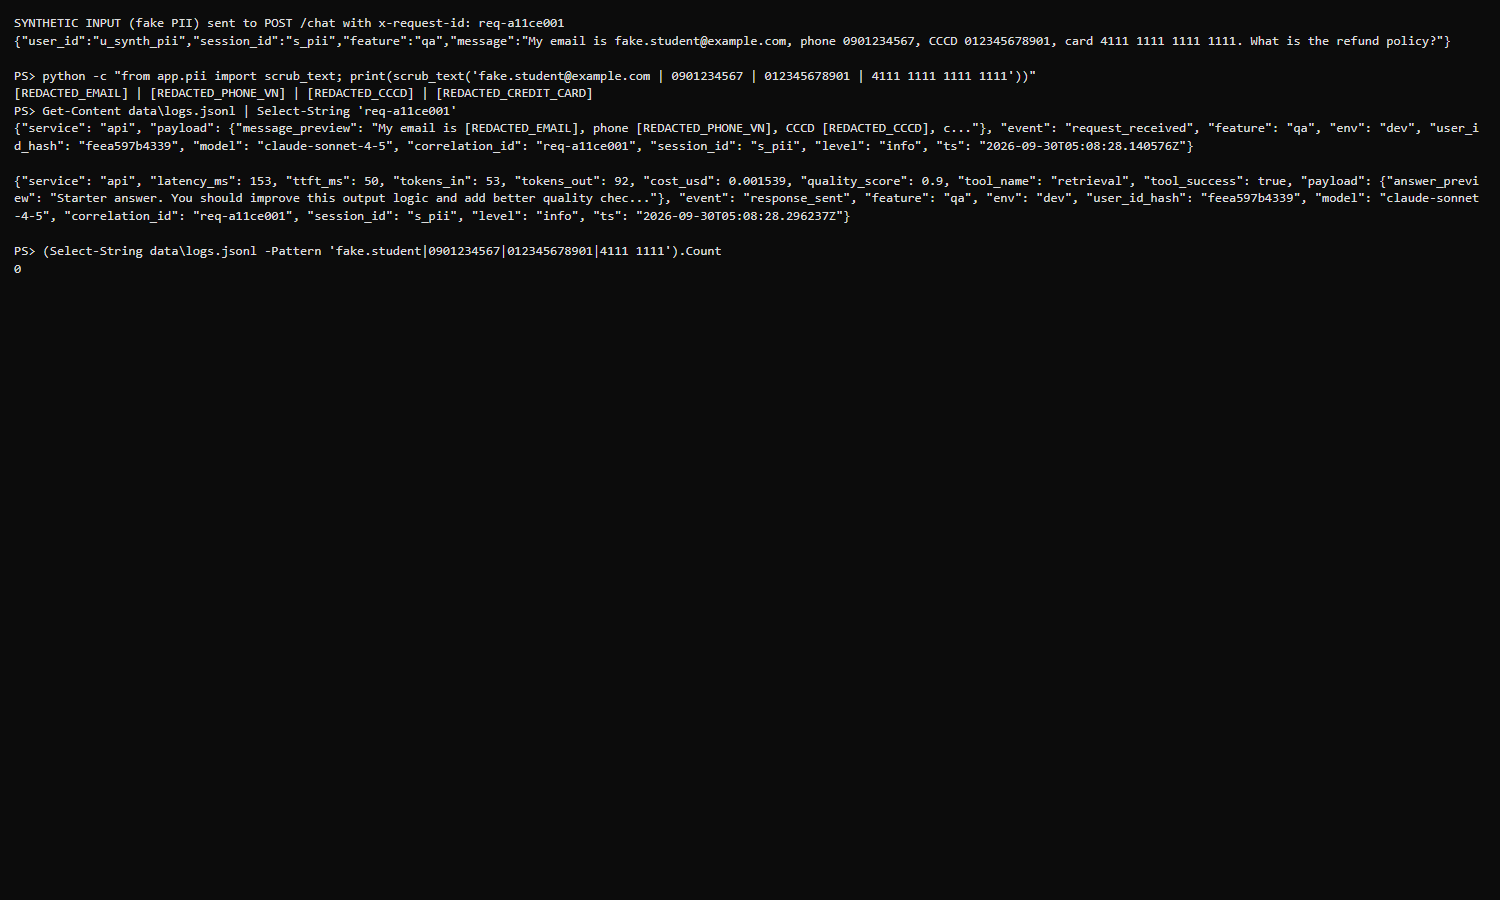
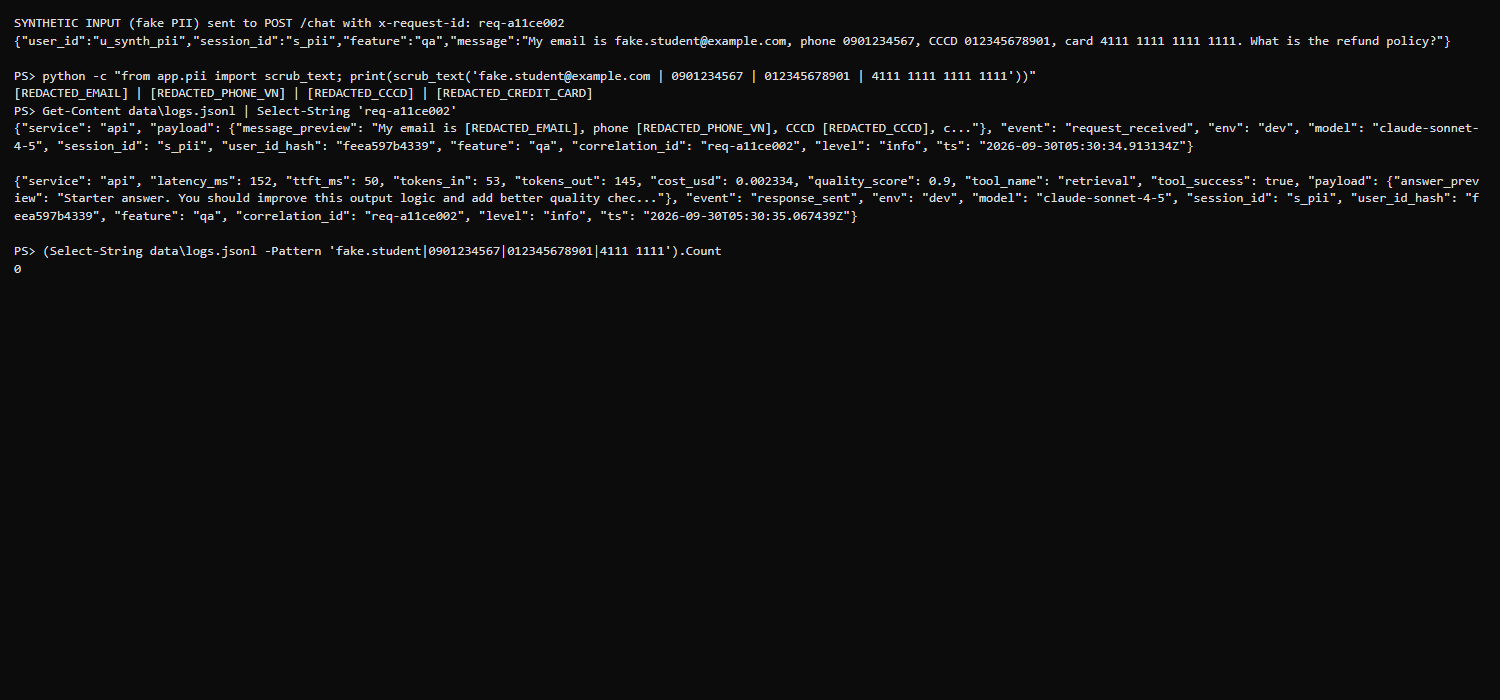
Langfuse evidence (06-10,14) from personal project, refreshed workload/challenge evidence, report update

Changed region(s): [[0.0, 0.0, 0.9813, 0.36], [0.1227, 0.36, 0.1533, 0.39]]

diff --git a/submission/REPORT.md b/submission/REPORT.md
@@ -10,7 +10,7 @@
 - **Repository URL:** https://github.com/Biocuatoe/K4-L3-DAY13-LeDucHung-2A202602849-Monitoring-LLMOps
 - **Commit SHA cuối:** code/config được kiểm thử ở commit `6b69ca3` (mọi output trong `evidence/` chạy trên code này). Commit chỉ thêm evidence + báo cáo nằm ngay sau đó; SHA cuối cùng để nộp lấy bằng `git log -1 --oneline` sau khi push (một file không thể tự chứa SHA của chính commit chứa nó).
 - **Challenge ID:** `day13-k4-l3b-monitoring-llmops-v1` (cohort K4, incident `rag_slow`, `latency_threshold_ms` = 2000; file `config/challenge.json` do Lab Coach gửi, được `.gitignore`, không commit)
-- **Tên project Langfuse cá nhân:** cần là `day13-k4-l3b-2A202602849`. **Trạng thái thực tế:** project gắn với key trong `.env` hiện có tên `My Project` (đọc qua API), chưa đổi tên — xem mục 8 (hạn chế) và `evidence/README.md`.
+- **Tên project Langfuse cá nhân:** `day13-k4-l3b-2A202602849` (xác nhận qua API và hiển thị trong mọi ảnh Langfuse). Project cũ `My Project` (dùng cho các lần chạy thử trước) không còn được dùng làm evidence.
 
 ## 2. Evidence index
 
@@ -21,15 +21,15 @@
 | Dashboard validator | [evidence/03-dashboard-validator.txt](evidence/03-dashboard-validator.txt) | có |
 | Structured log | ![](evidence/04-structured-log.png) | có |
 | PII redaction | ![](evidence/05-pii-redaction.png) | có |
-| Trace list | `evidence/06-trace-list.png` | **CHƯA CÓ** — cần chụp thủ công từ Langfuse UI (đăng nhập) |
-| Trace waterfall | `evidence/07-trace-waterfall.png` | **CHƯA CÓ** — như trên |
-| Trace metadata | `evidence/08-trace-metadata.png` | **CHƯA CÓ** — như trên |
-| Prompt versions | `evidence/09-prompt-versions.png` | **CHƯA CÓ** — như trên |
-| Prompt rollback | `evidence/10-prompt-rollback.png` | **CHƯA CÓ** — như trên (dữ liệu thật đã tạo, xem mục 5) |
+| Trace list | ![](evidence/06-trace-list.png) | có |
+| Trace waterfall | ![](evidence/07-trace-waterfall.png) | có |
+| Trace metadata | ![](evidence/08-trace-metadata.png) | có (ảnh cắt phía trên dòng `scope.attributes.public_key` của Langfuse để không hiện key) |
+| Prompt versions | ![](evidence/09-prompt-versions.png) | có |
+| Prompt rollback | ![](evidence/10-prompt-rollback.png) (từng ảnh: 10a, 10b, 10c cùng thư mục) | có |
 | Dashboard runtime | ![](evidence/11-dashboard-overview.png) | có |
 | Incident metric | ![](evidence/12-incident-metric.png) | có |
 | Incident log | ![](evidence/13-incident-log.png) | có |
-| Incident trace | `evidence/14-incident-trace.png` | **CHƯA CÓ** — cần chụp thủ công (trace ID ở mục 7) |
+| Incident trace | ![](evidence/14-incident-trace.png) | có |
 
 ## 3. Kết quả kỹ thuật
 
@@ -38,9 +38,9 @@
 | `validate_logs.py` | 30/100 | **100/100** (69 record, 33 correlation ID khác nhau, 0 PII leak) | [evidence/02](evidence/02-log-validator.txt). `data/logs.jsonl` cũ được chuyển sang `data/old/` (không commit) trước khi đo lại. |
 | `validate_dashboard.py` | 6/6 | **6/6** | [evidence/03](evidence/03-dashboard-validator.txt) |
 | `pytest` | 22 passed | **33 passed** | [evidence/01](evidence/01-pytest.txt) |
-| Traces trong workload cuối | 0 (không có key) | **31** trace từ workload cuối (16 workload/prompt + 5 challenge + 10 kiểm chứng sau fix), có `day13-agent-request` / `lab-agent-run` → `retrieval` + `generation` | đọc qua Langfuse observations API; ảnh UI chưa chụp được (mục 2). Project còn vài trace cũ từ các lần chạy thử trước đó (prompt `local-v1`), không dùng làm evidence. |
-| PII leak | 0 | **0** | request PII giả `req-a11ce001`, [evidence/05](evidence/05-pii-redaction.png) |
-| Latency | P95 161 ms (10 req) | bình thường ≈ 150–190 ms/request; P95 cửa sổ 60' = 1368 ms (request đầu tiên sau mỗi lần khởi động ≈ 1.3 s do tải prompt); **incident: P95 = 2655 ms** | [evidence/11](evidence/11-dashboard-overview.png), [evidence/12](evidence/12-incident-metric.png) |
+| Traces trong workload cuối | 0 (không có key) | **31** trace trong project `day13-k4-l3b-2A202602849` (16 workload/prompt + 5 challenge + 10 kiểm chứng sau fix), mỗi trace `day13-agent-request` → `lab-agent-run` → `retrieval` + `generation` | [evidence/06](evidence/06-trace-list.png) (Total 31). |
+| PII leak | 0 | **0** | request PII giả `req-a11ce002`, [evidence/05](evidence/05-pii-redaction.png) |
+| Latency | P95 161 ms (10 req) | bình thường ≈ 150–190 ms/request; P95 cửa sổ 60' = 2665 ms gồm cả incident; **incident: P95 ≈ 2665 ms**. Một số request đầu tiên sau mỗi lần khởi động API chậm 2.3–3.0 s (`req-ab000201`, `req-ab000202`, `req-ab000204`): trace cho thấy retrieval ≈ 0 ms, generation ≈ 150 ms, tức thời gian nằm ở bước lấy prompt từ Langfuse lúc cache còn lạnh (chưa có span riêng), không phải incident | [evidence/11](evidence/11-dashboard-overview.png), [evidence/12](evidence/12-incident-metric.png) |
 | Retrieval success | 100% | 100% (không bật `tool_fail`) | |
 
 ## 4. Logging và PII
@@ -52,9 +52,9 @@
 
 ## 5. Tracing và prompt versioning
 
-- **Traces do chính tôi tạo:** workload chạy bằng `scripts/load_test.py` + request có `x-request-id` cố định (`req-ab00010x`) với key trong `.env` của tôi; dò lại trace bằng `correlation_id` qua Langfuse API. Không dùng trace của người khác.
+- **Traces do chính tôi tạo:** workload chạy bằng `scripts/load_test.py` + request có `x-request-id` cố định (`req-ab00020x`) với key trong `.env` của tôi; dò lại trace bằng `correlation_id` qua Langfuse API. Không dùng trace của người khác.
 - **Cấu trúc:** trace `day13-agent-request` → observation gốc `lab-agent-run` (agent) → con `retrieval` (retriever: `doc_count`, `query_preview` đã scrub, thời lượng) và `generation` (generation: `model`, `usage_details` input/output token, `cost_details`, prompt link, `prompt_name/label/version/source`). `correlation_id`, `feature`, `model`, `env` truyền xuống mọi observation bằng `propagate_attributes` ([app/agent.py](../app/agent.py)).
-- **Nối trace với log:** cùng `correlation_id` (ví dụ `req-ab000101` có trong `data/logs.jsonl` và trong metadata của trace).
+- **Nối trace với log:** cùng `correlation_id` (ví dụ `req-ab000201` có trong `data/logs.jsonl` và trong metadata của trace).
 - **Prompt name:** `day13-chat` (text, 3 biến `feature/docs/message`), tạo bằng [scripts/manage_prompts.py](../scripts/manage_prompts.py).
 - **Version/label baseline:** v1 — labels `baseline`, `production` (nội dung giống template gốc).
 - **Version/label candidate:** v2 — label `candidate` (thêm dòng yêu cầu trả lời ngắn ≤ 2 câu).
@@ -62,17 +62,17 @@
 
 | Bước | correlation_id | Trace ID | label / version |
 |---|---|---|---|
-| chạy `baseline` | `req-ab000101` | `d9033d69b66c4975f390950b09208bdb` | baseline / v1 |
-| chạy `candidate` | `req-ab000102` | `2e37c199c7aa9f190e24627567dec3cc` | candidate / v2 |
-| production TRƯỚC promote | `req-ab000103` | `94584e3c1f2f1c56166d9b0c3a1df37d` | production / v1 |
-| production SAU promote | `req-ab000104` | `066f3d80412e133ffb03d884d8a91b1c` | production / v2 |
-| production SAU rollback | `req-ab000105` | `dd443a3cc638e597bca36068486ddc0f` | production / v1 |
+| chạy `baseline` | `req-ab000201` | `ef87b6b95557bfd7fa5de566435393f7` | baseline / v1 |
+| chạy `candidate` | `req-ab000202` | `c7a0454176fcfca01dde85f76fcf309b` | candidate / v2 |
+| production TRƯỚC promote | `req-ab000203` | `6be6836d2d622cfcdb355ad4e23d75ec` | production / v1 |
+| production SAU promote | `req-ab000204` | `b0857f31580bc6fff752627a98e44d13` | production / v2 |
+| production SAU rollback | `req-ab000205` | `bb45a4e9d6dcf6a4c5b36201a0932575` | production / v1 |
 
 - **Promote và rollback (chạy thật bằng `manage_prompts.py`, output `show`):**
   - trước: v1 `['baseline','production']`, v2 `['candidate','latest']`
   - promote: v1 `['baseline']`, v2 `['candidate','latest','production']`
   - rollback: v1 `['baseline','production']`, v2 `['candidate','latest']`
-  - Mỗi lần đổi label tôi khởi động lại API (cache prompt 60 s) rồi gửi cùng một input. Ảnh UI [evidence/09, 10] chưa chụp được.
+  - Mỗi lần đổi label tôi khởi động lại API (cache prompt 60 s) rồi gửi cùng một input. Ảnh UI: [evidence/09](evidence/09-prompt-versions.png), [evidence/10](evidence/10-prompt-rollback.png). Để chụp trước/sau, lúc chụp tôi chạy lại `promote` rồi `rollback` bằng script và chụp Langfuse sau mỗi bước (kết thúc ở production = v1).
 - **Fallback:** nếu Langfuse lỗi, `prompt_source=local-fallback`, `prompt_version=local-v1` ([app/prompt_management.py](../app/prompt_management.py)); không hard-code version giả.
 
 ## 6. Dashboard, SLO và alerts
@@ -80,40 +80,40 @@
 - **Dashboard:** đúng sáu panel theo [config/dashboard.yaml](../config/dashboard.yaml) (latency P50/P95/P99 + TTFT P95, traffic, errors + retrieval success, cost, tokens, quality), render từ `data/logs.jsonl` bằng [scripts/dashboard.py](../scripts/dashboard.py); time range 60 phút, đơn vị và đường threshold hiển thị ([evidence/11](evidence/11-dashboard-overview.png)). Đường cam "challenge threshold 2000 ms" là phụ.
 - **SLO và lý do:** [config/slo.yaml](../config/slo.yaml) — 99.5% request `response_sent` có `latency_ms <= 3000` trong 28 ngày. Baseline P95 ≈ 170 ms nên 3000 ms là ngưỡng người dùng chấp nhận được, không gây báo động giả.
 - **Error budget:** 0.5% ⇒ với 10 000 request/28 ngày được phép tối đa 50 request chậm hơn 3000 ms hoặc lỗi.
-- **Nhận xét từ challenge:** `rag_slow` đẩy P95 lên 2655 ms — vượt ngưỡng challenge 2000 ms nhưng **chưa** vượt SLO 3000 ms, nên alert 3000 ms sẽ bỏ sót. Vì vậy `HighLatencyP95` được hạ xuống `> 2000 ms` (cảnh báo sớm, chặt hơn SLO).
+- **Nhận xét từ challenge:** `rag_slow` đẩy P95 lên 2665 ms — vượt ngưỡng challenge 2000 ms nhưng **chưa** vượt SLO 3000 ms, nên alert 3000 ms sẽ bỏ sót. Vì vậy `HighLatencyP95` được hạ xuống `> 2000 ms` (cảnh báo sớm, chặt hơn SLO).
 - **Ba alert** ([config/alert_rules.yaml](../config/alert_rules.yaml), runbook [docs/alerts.md](../docs/alerts.md)): `HighLatencyP95` (warning, 5m), `ElevatedErrorRate` (critical, 10m), `DegradedRetrievalSuccess` (warning, 15m); đều symptom-based, kênh Slack `#k4-l3b-alerts`, owner `student-2A202602849`.
 
 ## 7. Điều tra challenge
 
 - **Challenge ID:** `day13-k4-l3b-monitoring-llmops-v1`
-- **Khoảng thời gian:** 2026-09-30 05:12:21Z (bật incident) → 05:13:45Z (tắt), request bị ảnh hưởng 05:12:22Z–05:12:36Z. Lệnh: `python scripts/inject_incident.py`, `python scripts/load_test.py --challenge --concurrency 5`.
-- **Metric (bước 1):** latency P95 = **2655 ms**, P99 = 2656 ms (baseline ≈ 170 ms) trong khi TTFT P95 giữ 50 ms, error rate 0%, retrieval success 100% ⇒ chỉ latency bất thường ([evidence/12](evidence/12-incident-metric.png)).
-- **Log (bước 2):** `response_sent` `correlation_id=req-d31dfb4b`, `latency_ms=2653`, `feature=monitoring`, `ts=2026-09-30T05:12:25.495346Z`; cả 5 request challenge đều 2653–2656 ms ([evidence/13](evidence/13-incident-log.png)). Log `incident_enabled name=rag_slow` lúc 05:12:21Z.
-- **Trace (bước 3):** trace `1ef3ab0695c05cacd5bec783d980ca2c` có `correlation_id=req-d31dfb4b`; qua Langfuse API: `lab-agent-run` 2654 ms, **`retrieval` 2501 ms**, `generation` 152 ms. Span gây ảnh hưởng: `retrieval`. (5 trace challenge đều cùng mẫu: retrieval ≈ 2501 ms.) Ảnh UI: `evidence/14-incident-trace.png` **chưa chụp**.
+- **Khoảng thời gian:** 2026-09-30 05:32:36Z (bắt đầu chạy) → 05:33:38Z (tắt incident); 5 request bị ảnh hưởng 05:32:41Z–05:32:52Z. Lệnh: `python scripts/inject_incident.py`, `python scripts/load_test.py --challenge --concurrency 5`.
+- **Metric (bước 1):** latency P95 ≈ **2665 ms**, P99 ≈ 2665 ms (baseline ≈ 170 ms) trong khi TTFT P95 giữ 50 ms, error rate 0%, retrieval success 100% ⇒ chỉ latency bất thường ([evidence/12](evidence/12-incident-metric.png)).
+- **Log (bước 2):** `response_sent` `correlation_id=req-583d7b8f`, `latency_ms=2660`, `feature=monitoring`, `ts=2026-09-30T05:32:41.185137Z`; cả 5 request challenge đều 2653–2665 ms ([evidence/13](evidence/13-incident-log.png)). Có log `incident_enabled name=rag_slow` và `incident_disabled` (xem ảnh).
+- **Trace (bước 3):** trace `b54dcfcd52ec7656e03453abb6bb02d3` có `correlation_id=req-583d7b8f`: `lab-agent-run` 2.66 s, **`retrieval` 2.50 s**, `generation` 155 ms. Span gây ảnh hưởng: `retrieval`. 5 trace challenge đều cùng mẫu (retrieval ≈ 2501–2504 ms). Ảnh: [evidence/14](evidence/14-incident-trace.png).
 - **Root cause (bước 4):** incident `rag_slow` làm `retrieve()` trong [app/mock_rag.py](../app/mock_rag.py) ngủ 2.5 s; chứng cứ: span `retrieval` chiếm ~94% thời gian, generation/TTFT bình thường, log `incident_enabled`. (Ngoài ra `time.sleep` chặn event loop nên client thấy 8–13 s do request xếp hàng, còn server đo 2.65 s/request.)
-- **Fix action (bước 5):** tắt incident bằng `python scripts/inject_incident.py --disable` (log `incident_disabled` 05:13:45Z); chạy lại `scripts/load_test.py` — latency trở lại ≈ 160–250 ms.
+- **Fix action (bước 5):** tắt incident bằng `python scripts/inject_incident.py --disable` (log `incident_disabled` 05:33:38Z); chạy lại `scripts/load_test.py` — latency trở lại ≈ 160–250 ms.
 - **Preventive measure (bước 6):** hạ alert `HighLatencyP95` xuống > 2000 ms/5m; runbook chỉ rõ đi Metrics → Logs → Traces và so span `retrieval` với `generation`; đề xuất thêm timeout + fallback cho retrieval và không dùng `time.sleep` chặn trong handler async (chưa triển khai).
 
 ## 8. Giải thích và tự đánh giá
 
-- **Một quyết định kỹ thuật:** hạ ngưỡng alert latency xuống 2000 ms thay vì giữ 3000 ms, vì đo thực tế cho thấy incident 2655 ms sẽ lọt qua ngưỡng SLO; SLO và dashboard contract giữ nguyên.
+- **Một quyết định kỹ thuật:** hạ ngưỡng alert latency xuống 2000 ms thay vì giữ 3000 ms, vì đo thực tế cho thấy incident ≈ 2665 ms sẽ lọt qua ngưỡng SLO; SLO và dashboard contract giữ nguyên.
 - **Một lỗi/blocker:** (1) trace lúc đầu thiếu token/cost và bị mất khi tôi kill API ngay sau request (span chưa flush) — sửa bằng `usage_details/cost_details` trên generation và chờ flush trước khi restart; (2) `uvicorn` không nạp `.env` nếu thiếu `--env-file .env`, nên `tracing_enabled=false`; (3) API `traces` legacy của Langfuse trả 410, phải dùng `observations` v2.
 - **Cách tìm nguyên nhân:** so sánh từng observation theo `correlation_id` qua API thay vì đoán.
 - **Metrics → Logs → Traces:** metric cho biết *cái gì* và *khi nào*; log cho *request nào* (correlation_id); trace cho *bước nào* (span).
 - **Vai trò prompt version, token/cost, SLO, rollback:** prompt version gắn mỗi trace với đúng bản prompt để so sánh/rollback bằng đổi label không cần deploy; token/cost phát hiện `cost_spike`; SLO/error budget quyết định mức nghiêm trọng của alert.
 - **Điều quan trọng nhất đã học:** kết luận incident phải nối được cùng một request qua metric, log, trace.
 - **Hạn chế / chưa hoàn thành (trung thực):**
-  - Chưa có ảnh Langfuse UI `06`–`10`, `14` (cần đăng nhập Langfuse — tôi không tự động hoá được). Dữ liệu tương ứng đã tồn tại trong project và được đối chiếu qua API.
-  - Project Langfuse còn tên `My Project`, chưa đổi thành `day13-k4-l3b-2A202602849`.
+  - Ảnh Langfuse 06–10, 14 chụp từ phiên Edge do chính học viên đăng nhập (điều khiển bằng Playwright); không mở trang API Keys. Ảnh 07/08/14 được cắt (clip) phía trên dòng metadata `scope.attributes.public_key` của Langfuse; không chỉnh sửa nội dung nào.
+  - Bước lấy prompt từ Langfuse chưa có span riêng nên request lạnh chậm 2–3 s không giải thích được bằng span (xem mục 3); nên bọc `resolve_prompt` bằng một observation.
   - Repo trên GitHub đã từng chứa `config/K4-L3B-challenge.json` (commit `e71de5d`, một bản challenge riêng) — file đã được gỡ khỏi index và đổi về `config/challenge.json` (gitignore) ở commit sau, nhưng vẫn còn trong lịch sử; cần viết lại lịch sử/force-push nếu giảng viên yêu cầu.
   - Dashboard là trang HTML tĩnh sinh từ log, không tự refresh.
 
 ## 9. Checklist trước khi nộp
 
 - [x] Test/validator chạy trên code ở commit `6b69ca3`.
-- [ ] Ảnh Langfuse (06–10, 14) — chưa có, xem mục 2.
-- [x] Incident nối metric → log (req-d31dfb4b) → trace (1ef3ab06…, span `retrieval`); ảnh trace UI còn thiếu.
-- [ ] Trace/prompt evidence thuộc project `day13-k4-l3b-2A202602849` — project chưa đổi tên.
+- [x] Ảnh Langfuse (06–10, 14) đã có, từ project cá nhân, không lộ key/secret.
+- [x] Incident nối metric → log (req-583d7b8f) → trace (b54dcfcd…, span `retrieval`).
+- [x] Trace/prompt evidence thuộc project `day13-k4-l3b-2A202602849`.
 - [x] Không có secret/API key/PII thô trong evidence và report.
 - [ ] URL repo và commit SHA cuối nộp trên LMS/Codelabs — việc của học viên sau khi push.
 

diff --git a/submission/evidence/README.md b/submission/evidence/README.md
@@ -1,27 +1,22 @@
 # Evidence manifest — Lê Đức Hùng (2A202602849)
 
-Tất cả nguồn là output/ảnh sinh từ lần chạy thật trên code ở commit `6b69ca3`. Không có secret; dữ liệu PII chỉ là dữ liệu giả.
+Tất cả nguồn là output/ảnh sinh từ lần chạy thật trên code ở commit `6b69ca3` (project Langfuse `day13-k4-l3b-2A202602849`). Không có secret; dữ liệu PII chỉ là dữ liệu giả.
 
 | # | File | Nguồn | Chứng minh | CP |
 |---|---|---|---|---|
 | 01 | `01-pytest.txt` | output `python -m pytest -q` | 33 test pass | CP0–CP4 |
 | 02 | `02-log-validator.txt` | output `scripts/validate_logs.py` | 100/100, 0 PII leak | CP1 |
 | 03 | `03-dashboard-validator.txt` | output `scripts/validate_dashboard.py` | 6/6 panel | CP2 |
-| 04 | `04-structured-log.png` | terminal / `data/logs.jsonl` (`req-ab000101`) | JSON log có ts, event, correlation_id, model, env, feature, latency | CP1 |
-| 05 | `05-pii-redaction.png` | terminal / `data/logs.jsonl` (`req-a11ce001`) | input giả → `[REDACTED_*]`, 0 chuỗi PII gốc trong log | CP1 |
-| 06 | **thiếu** | Langfuse UI | danh sách ≥ 10 trace | CP2 |
-| 07 | **thiếu** | Langfuse UI | waterfall root → retrieval + generation | CP2 |
-| 08 | **thiếu** | Langfuse UI | metadata correlation_id/model/prompt/token/cost | CP2 |
-| 09 | **thiếu** | Langfuse UI | prompt `day13-chat` v1/v2 + labels | CP2 |
-| 10 | **thiếu** | Langfuse UI | production label trước/sau promote/rollback | CP2 |
+| 04 | `04-structured-log.png` | terminal / `data/logs.jsonl` (`req-ab000201`) | JSON log có ts, event, correlation_id, model, env, feature, latency | CP1 |
+| 05 | `05-pii-redaction.png` | terminal / `data/logs.jsonl` (`req-a11ce002`) | input giả → `[REDACTED_*]`, 0 chuỗi PII gốc trong log | CP1 |
+| 06 | `06-trace-list.png` | Langfuse UI | project cá nhân, 31 trace gốc `day13-agent-request` | CP2 |
+| 07 | `07-trace-waterfall.png` | Langfuse UI, trace `ef87b6b9…` | `lab-agent-run` → `retrieval` + `generation` (timeline) | CP2 |
+| 08 | `08-trace-metadata.png` | Langfuse UI, span `generation` | correlation_id, model, prompt name/label/version, token, cost | CP2 |
+| 09 | `09-prompt-versions.png` | Langfuse UI | `day13-chat` v1 (`production`,`baseline`), v2 (`latest`,`candidate`) | CP2 |
+| 10 | `10-prompt-rollback.png` (+ `10a`, `10b`, `10c`) | Langfuse UI sau `manage_prompts.py promote/rollback` | production: v1 → v2 → v1 | CP2 |
 | 11 | `11-dashboard-overview.png` | `scripts/dashboard.py` từ `data/logs.jsonl` | 6 panel có dữ liệu, time range, đơn vị, threshold | CP2 |
-| 12 | `12-incident-metric.png` | `scripts/dashboard.py` (cửa sổ 05:05–05:12:36Z) | latency P95 2655 ms trong challenge | CP3 |
-| 13 | `13-incident-log.png` | terminal / `data/logs.jsonl` | `req-d31dfb4b` latency 2653 ms + incident_enabled/disabled | CP3 |
-| 14 | **thiếu** | Langfuse UI | trace `1ef3ab0695c05cacd5bec783d980ca2c` (`req-d31dfb4b`), span `retrieval` 2501 ms | CP3 |
+| 12 | `12-incident-metric.png` | `scripts/dashboard.py` (cửa sổ 05:28–05:32:51Z) | latency P95 ≈ 2665 ms trong challenge | CP3 |
+| 13 | `13-incident-log.png` | terminal / `data/logs.jsonl` | `req-583d7b8f` latency 2660 ms + incident_enabled/disabled | CP3 |
+| 14 | `14-incident-trace.png` | Langfuse UI, trace `b54dcfcd…` | span `retrieval` 2.50 s, `correlation_id=req-583d7b8f` | CP3 |
 
-## Chụp thủ công các ảnh còn thiếu (cần đăng nhập Langfuse, KHÔNG mở trang API Keys)
-0. Đổi tên project thành `day13-k4-l3b-2A202602849` (Settings → General) để tên hiển thị trong ảnh.
-1. 06: Tracing → Traces, lọc thời gian quanh 05:08–05:14Z (30/09/2026).
-2. 07/08: mở trace `d9033d69b66c4975f390950b09208bdb` (baseline v1), xem tree và metadata/usage/cost.
-3. 09/10: Prompts → `day13-chat` (v1 `baseline,production`; v2 `candidate`). Để có ảnh trước/sau, có thể chạy `python scripts/manage_prompts.py promote` rồi `rollback` và chụp trang Prompts sau mỗi lần; trace ID đã ghi trong REPORT §5.
-4. 14: mở trace `1ef3ab0695c05cacd5bec783d980ca2c`, chọn span `retrieval` (2501 ms).
+Ảnh Langfuse 07/08/14 được cắt (clip) phía trên dòng metadata `scope.attributes.public_key` do Langfuse tự thêm; không chỉnh sửa nội dung. Không có ảnh trang API Keys.
